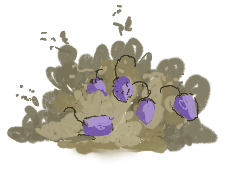
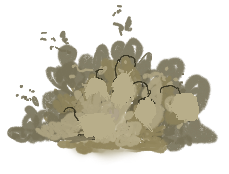
вот

diff --git a/pong/ecosystem.h b/pong/ecosystem.h
@@ -32,6 +32,7 @@ void ProcessCreatures(PopulationManager& pop) {
     int dead_bushes = 0;
     int dead_rats = 0;
     int dead_grass = 0;
+    int dead_berrys = 0;
     std::vector<std::shared_ptr<Wolf>> new_wolfs;
     std::vector<std::shared_ptr<Rabbit>> new_rabbits;        //список для новых существ
     std::vector<std::shared_ptr<Tree>> new_trees;          //список для новых существ
@@ -39,12 +40,14 @@ void ProcessCreatures(PopulationManager& pop) {
     std::vector<std::shared_ptr<Eagle>> new_eagles;
     std::vector<std::shared_ptr<Rat>> new_rats;
     std::vector<std::shared_ptr<Grass>> new_grass;
+    std::vector<std::shared_ptr<Berry>> new_berrys;
     
 
     
     for (auto& tree : trees) tree->process(new_trees, pop);
-    for (auto& bush : bushes) bush->process(new_bushes, pop);
+    for (auto& bush : bushes) bush->process(new_bushes,new_berrys, pop);
     for (auto& gras : grass) gras->process(new_grass, pop);
+    for (auto& berry : berrys) berry->process(new_berrys, pop);
 
     for (auto& rabbit : rabbits) rabbit->process(rabbits, new_rabbits, pop);
     for (auto& wolf : wolves) wolf->process(wolves, new_wolfs, pop);
@@ -79,6 +82,7 @@ void ProcessCreatures(PopulationManager& pop) {
     remove_dead(bushes, dead_bushes);
     remove_dead(eagles, dead_eagles);
     remove_dead(rats, dead_rats);
+    remove_dead(berrys, dead_berrys);
     //remove_dead(grass, dead_grass);
     // 3.  добавления новых существ
     auto add_new_entities = [](auto& dest, auto& src) {
@@ -96,7 +100,8 @@ void ProcessCreatures(PopulationManager& pop) {
         static_cast<int>(new_bushes.size()) - dead_bushes,
         static_cast<int>(new_eagles.size()) - dead_eagles,
         static_cast<int>(new_rats.size()) - dead_rats,
-        static_cast<int>(new_grass.size()) - dead_grass
+        static_cast<int>(new_grass.size()) - dead_grass,
+        static_cast<int>(new_berrys.size()) - dead_berrys
     );
     add_new_entities(rabbits, new_rabbits);
     add_new_entities(wolves, new_wolfs);
@@ -105,6 +110,7 @@ void ProcessCreatures(PopulationManager& pop) {
     add_new_entities(eagles, new_eagles);
     add_new_entities(rats, new_rats);
     add_new_entities(grass, new_grass);
+    add_new_entities(berrys, new_berrys);
 
 }
 //инициализация игры
@@ -150,6 +156,7 @@ void InitGame() {
     Textures::LoadTextureFromFile(24, L"Debug/speed.png");
     Textures::LoadTextureFromFile(25, L"Debug/speed2.png");
     Textures::LoadTextureFromFile(26, L"Debug/speed3.png");
+    Textures::LoadTextureFromFile(27, L"Debug/Ягода.png");
     // Начальные растения
     for (int i = 0; i < 0; i++) {
         auto tree = std::make_shared<Tree>();
@@ -405,6 +412,8 @@ void mouse()
                 tree->y = Wrap(Camera::state.mouseY, base_rangey);
                 tree->x = Wrap(Camera::state.mouseX, base_rangex);
                 tree->age = 0;
+                plant_id += 1;
+                tree->id = plant_id;
                 tree->updateChunk();
                 new_trees.push_back(tree);
                 population.tree_count++;
@@ -420,6 +429,8 @@ void mouse()
                 gras->y = Wrap(Camera::state.mouseY, base_rangey);
                 gras->x = Wrap(Camera::state.mouseX, base_rangex);
                 gras->age = 0;
+                plant_id += 1;
+                gras->id = plant_id;
                 gras->updateChunk();
                 new_grass.push_back(gras);
                 population.grass_count++;
@@ -435,6 +446,8 @@ void mouse()
                 bush->y = Wrap(Camera::state.mouseY, base_rangey);
                 bush->x = Wrap(Camera::state.mouseX, base_rangex);
                 bush->age = 0;
+                plant_id += 1;
+                bush->id = plant_id;
                 new_bushes.push_back(bush);
                 population.bush_count++;
             }
@@ -716,7 +729,8 @@ void ShowRacketAndBallFromVectors(
     const std::vector<std::shared_ptr<Bush>>& bushes,
     const std::vector<std::shared_ptr<Eagle>>& eagles,
     const std::vector<std::shared_ptr<Rat>>& rats,
-    const std::vector<std::shared_ptr<Grass>>& grass)
+    const std::vector<std::shared_ptr<Grass>>& grass,
+    const std::vector<std::shared_ptr<Berry>>& berrys)
 {
     Shaders::vShader(0);
     Shaders::pShader(0);
@@ -729,11 +743,13 @@ void ShowRacketAndBallFromVectors(
 
     // Рисуем: напрямую из векторов
     DrawSimpleCreatures<Rabbit>(2, rabbits, SIZERABBITS);   
-    DrawSimpleCreatures<Wolf>(3, wolves, SIZEWOLFS);        
+    DrawSimpleCreatures<Wolf>(3, wolves, SIZEWOLFS);
+    
 
     DrawAnimalsByGender<Eagle>(eagle_arr, eagles, SIZEAGLES);
     DrawPlantsBySize<Tree>(tree_arr, trees, SIZETREES);      
     DrawPlantsBySize<Bush>(bush_arr, bushes, SIZEBUSHES);    
+    DrawSimpleCreatures<Berry>(27, berrys, SIZEBERRYS);
     DrawPlantsBySize<Grass>(grass_arr, grass, SIZEGRASS);    
     DrawInfectCheck<Rat>(rat_arr, rats, SIZERATS);           
 }

diff --git a/pong/main.cpp b/pong/main.cpp
@@ -182,25 +182,6 @@ LRESULT CALLBACK WndProc(HWND hWnd, UINT message, WPARAM wParam, LPARAM lParam)
             case '7': currentType = type_::grass;slot_number = 7; break;
             case '8': currentType = type_::lightning;slot_number = 8; break;
 
-            case VK_LBUTTON: {
-
-                float barPositions = -0.35;
-                float barHeights = -0.85;
-                /*float barLeft = barPositions - 0.1 + slot * 0.1;  
-                float barRight = barPositions + slot * 0.1;  */     
-                float barBottom = -1;                           // Нижняя граница
-                float barTop = barHeights;            // Верхняя граница
-                if ((barBottom < Camera::state.mousendcY && Camera::state.mousendcY < barHeights) &&
-                    (barPositions - 0.1 + 1 * 0.1 < Camera::state.mousendcX && Camera::state.mousendcX < barPositions + 1 * 0.1)) {
-                    currentType = type_::wolf; slot_number = 1;
-                }
-                /*if ((-0.3 < Camera::state.mousendcY && Camera::state.mousendcY < -0.1) &&
-                    (-0.1 < Camera::state.mousendcX && Camera::state.mousendcX < 0.1) &&
-                    GetAsyncKeyState(VK_LBUTTON) & 0x8000)
-                {
-                    ExitProcess(0);
-                }*/
-            }
             break;
             case VK_ESCAPE:
               //  gameState = gameState_::MainMenu;
@@ -210,6 +191,35 @@ LRESULT CALLBACK WndProc(HWND hWnd, UINT message, WPARAM wParam, LPARAM lParam)
         }
         break;
 
+    case WM_LBUTTONDOWN: {
+        if ((lParam & 0x40000000) == 0) {
+            float barPositions = -0.35;
+            float barHeights = -0.85;
+            float barBottom = -1;
+            float barTop = barHeights;
+
+            for (int slot = 1; slot < 9; slot++) {
+                if ((barBottom < Camera::state.mousendcY && Camera::state.mousendcY < barHeights) &&
+                    (barPositions - 0.1 + slot * 0.1 < Camera::state.mousendcX && Camera::state.mousendcX < barPositions + slot * 0.1)) {
+                    slot_number = slot;
+                }
+            }
+            switch (slot_number)
+            {
+            case 1: currentType = type_::wolf; break;
+            case 2: currentType = type_::rabbit; break;
+            case 3: currentType = type_::tree; break;
+            case 4: currentType = type_::bush; break;
+            case 5: currentType = type_::eagle; break;
+            case 6: currentType = type_::rat; break;
+            case 7: currentType = type_::grass; break;
+            case 8: currentType = type_::lightning; break;
+            default:
+                break;
+            }
+        }
+    }
+    break;
     case WM_KEYUP:
         if (wParam == VK_SHIFT) {
             Camera::state.speedMul = 1.0f;

diff --git a/pong/Chunks.h b/pong/Chunks.h
@@ -6,6 +6,7 @@ struct Chunk {
     std::vector<std::weak_ptr<Creature>> rabbits;
     std::vector<std::weak_ptr<Creature>> wolves;
     std::vector<std::weak_ptr<Creature>> bushes;
+    std::vector<std::weak_ptr<Creature>> berrys;
     std::vector<std::weak_ptr<Creature>> eagles;
     std::vector<std::weak_ptr<Creature>> rats;
     //Grass grass;
@@ -20,10 +21,34 @@ struct Chunk {
         case type_::eagle: return nearest_mature_creature(eagles, x, y, matureOnly, gender);
         case type_::rat: return nearest_mature_creature(rats, x, y, matureOnly, gender);
         case type_::grass: return nearest_mature_creature(grass, x, y, matureOnly, gender);
+        case type_::berry: return nearest_mature_creature(berrys, x, y, matureOnly, gender);
         default: return { -5000.0f, -5000.0f };
         }
     }
+    const int killBerrys(float x, float y, int id) {
+        float best_dx = 0, best_dy = 0;
+        float best_dist2 = 100000000;
+        bool found = false;
 
+        for (auto& w : berrys) {
+            if (auto c = w.lock()) {
+                if (id == c->id) {
+                    float dx = torusDelta(x, c->x, base_rangex);
+                    float dy = torusDelta(y, c->y, base_rangey);
+                    float dist2 = dx * dx + dy * dy;
+
+                    if (dist2 > 0.0f && dist2 < best_dist2) {
+                        best_dx = dx;
+                        best_dy = dy;
+                        best_dist2 = dist2;
+                        c->dead = true;
+                    }
+                }
+            }
+        }
+        return 0;
+    
+    }
     template<typename T>
     std::pair<float, float> nearest_mature_creature(
         const std::vector<std::weak_ptr<T>>& creatures,
@@ -47,14 +72,6 @@ struct Chunk {
                     }
                 }
                                         
-                /*if (c->blossoming_age != 0) {
-                    if (c->berry_count == 0) {
-                        return std::make_pair(-5000.0f, -5000.0f);
-                    }
-                }*/
-                ///
-
-                ///
                 float dx = torusDelta(x, c->x, base_rangex);
                 float dy = torusDelta(y, c->y, base_rangey);
                 float dist2 = dx * dx + dy * dy;
@@ -108,6 +125,7 @@ struct Chunk {
         case type_::eagle: return nearly_creature_square(eagles, x, y, half_side);
         case type_::rat: return nearly_creature_square(rats, x, y, half_side);
         case type_::grass: return nearly_creature_square(grass, x, y, half_side);
+        case type_::berry: return nearly_creature_square(berrys, x, y, half_side);
         }
     }
     

diff --git a/pong/GameConfig.h b/pong/GameConfig.h
@@ -25,6 +25,7 @@ float SIZEBUSHES = 50.0f;
 float SIZERABBITS = 100.0f;
 float SIZEAGLES = 100.0f;
 float SIZERATS = 100.0f;
+float SIZEBERRYS = 50.0f;
 float base_rangey = 1024.0f;
 float base_rangex = 1024.0f;
 float waterLevel = 0.6 + cos(timer::frameBeginTime * .01 * 0.3) * 0.02;
@@ -183,6 +184,7 @@ public:
     int eagle_count = 0;
     int grass_count = 0;
     int rat_count = 0;
+    int berry_count = 0;
     const int grass_limit = 5000;
     const int wolf_limit = 100;
     const int rabbit_limit = 500;
@@ -190,6 +192,7 @@ public:
     const int bush_limit = 500;
     const int eagle_limit = 100;
     const int rat_limit = 500;
+    const int berry_limit = 2500;
 
     bool canAddWolf(int pending = 0) const {
         return wolf_count + pending < wolf_limit;
@@ -215,8 +218,11 @@ public:
     bool canAddGrass(int pending = 0) const {
         return grass_count + pending < grass_limit;
     }
+    bool canAddBerrys(int pending = 0) const {
+        return berry_count + pending < berry_limit;
+    }
 
-    void update(int delta_rabbits, int delta_trees, int delta_wolfs,int delta_bushes, int delta_eagles, int delta_rats, int delta_grass) {
+    void update(int delta_rabbits, int delta_trees, int delta_wolfs,int delta_bushes, int delta_eagles, int delta_rats, int delta_grass, int delta_berrys) {
         rabbit_count += delta_rabbits;
         tree_count += delta_trees;
         wolf_count += delta_wolfs;
@@ -224,6 +230,7 @@ public:
         eagle_count += delta_eagles;
         rat_count += delta_rats;
         grass_count += delta_grass;
+        berry_count += delta_berrys;
     }
 };
 
@@ -262,6 +269,8 @@ public:
     int berry_limit;
     bool infect = false;
     bool isUsedInfection = false;
+    bool isRotten = false;
+    int id;
     Creature(type_ t) : type(t) {}
 
 

diff --git a/pong/Loop.h b/pong/Loop.h
@@ -90,7 +90,8 @@ void Loop() {
 		bushes,
 		eagles,
 		rats,
-		grass);
+		grass,
+		berrys);
 
 	Showpopulations();
 	//UpdateAllGrass();
@@ -151,7 +152,8 @@ void Looppause() {
 		bushes,
 		eagles,
 		rats,
-		grass);
+		grass,
+		berrys);
 
 	Showpopulations();
 
